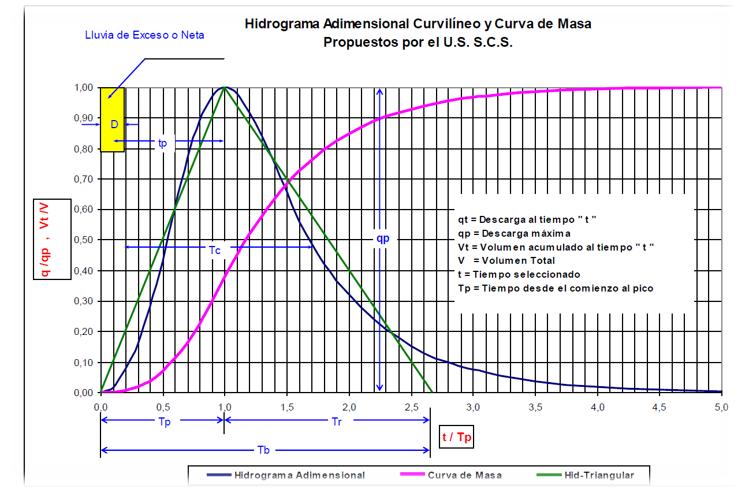
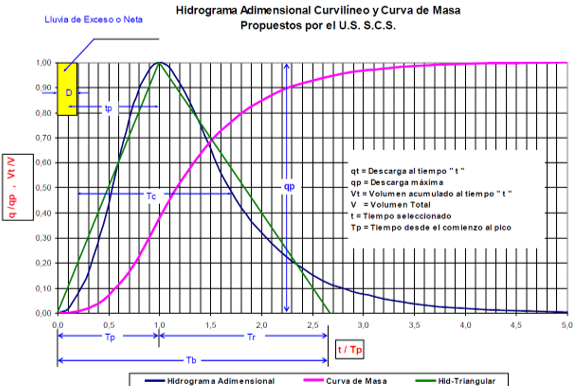
Cambios Conceptos básico en HECHMS No. 2 y caudales máximos No. 1

diff --git a/Contenido/2.HEC-HMS/CaudalesMaximos.md b/Contenido/2.HEC-HMS/CaudalesMaximos.md
@@ -43,7 +43,7 @@ Un hidrograma corresponde a la representación gráfica en un plano cartesiano c
 
 
 <div align="center">
-  <img src="Imagenes/FiguraHECHMS_24.PNG" width="500px"> 
+  <img src="Imagenes/FiguraHECHMS_24.PNG" width="700px"> 
 </div>
 
 Los hidrogramas de escorrentía directa corresponden hidrogramas generados por lluvias intensas en la cuenca. Son hidrograma de corta duración los cuales no tienen en cuenta el caudal o flujo base generado por la escorrentía subsuperficial que puede alimentar un cauce.
@@ -69,11 +69,11 @@ El hidrograma unitario adimensional más usado en el mundo corresponde al hidrog
 En las siguientes figuras se presenta gráficamente y numéricamente el hidrograma unitario adimensional del SCS.
 
 <div align="center">
-  <img src="Imagenes/FiguraHECHMS_25.PNG" width="500px"> 
+  <img src="Imagenes/FiguraHECHMS_25.PNG" width="600px"> 
 </div>
 
 <div align="center">
-  <img src="Imagenes/FiguraHECHMS_26.PNG" width="500px"> 
+  <img src="Imagenes/FiguraHECHMS_26.PNG" width="400px"> 
 </div>
 
 ## Ejercicio de aplicación para el desarrollo de la actividad
@@ -85,7 +85,7 @@ Una empresa de ingeniería ha sido contratada para diseñar el vertedero que per
 Desde el punto de control correspondiente a la ubicación de la bocatoma, se ha trazado una cuenca. Debido a los afluentes que ingresan al cauce principal, la cuenca se ha dividido en 4 subcuencas tal y como se presenta en la siguiente figura.
 
 <div align="center">
-  <img src="Imagenes/FiguraHECHMS_27.PNG" width="500px"> 
+  <img src="Imagenes/FiguraHECHMS_27.PNG" width="400px"> 
 </div>
 
 Cada una de las subcuencas fue caracterizada, determinando sus características físicas y morfométricas. También se caracterizó el tipo y uso del suelo. En la siguiente tabla se resumen las principales características de las subcuencas.
@@ -96,6 +96,8 @@ Cada una de las subcuencas fue caracterizada, determinando sus características 
 |     2     |     40     |              2.5              |         2.8         |                    0.001000                   | 82 |         Seca         |
 |     3     |     50     |              4.2              |         5.0         |                    0.001905                  | 81 |        Húmeda        |
 |     4     |     74     |              7.0              |         8.0         |                   0.001000                   | 89 |        Norma         |
+
+
 Para la estimación del tiempo de concentración de cada subcuenca utilice la ecuación de Kirpich.
 
 ## Creación de un nuevo documento en HEC-HMS
